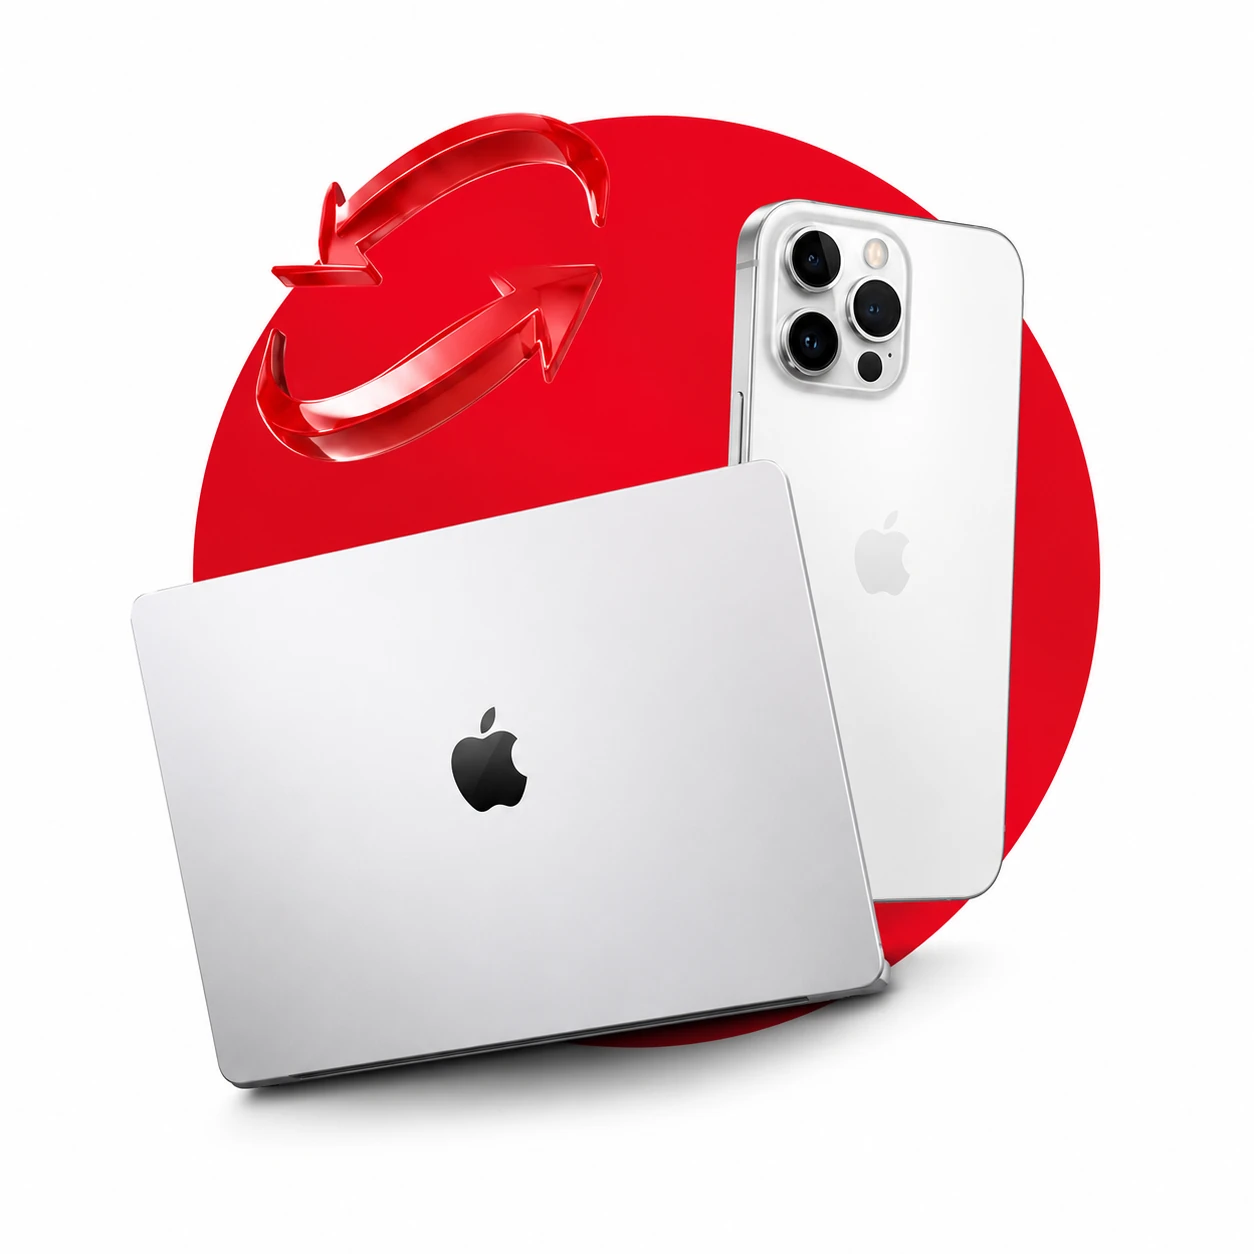
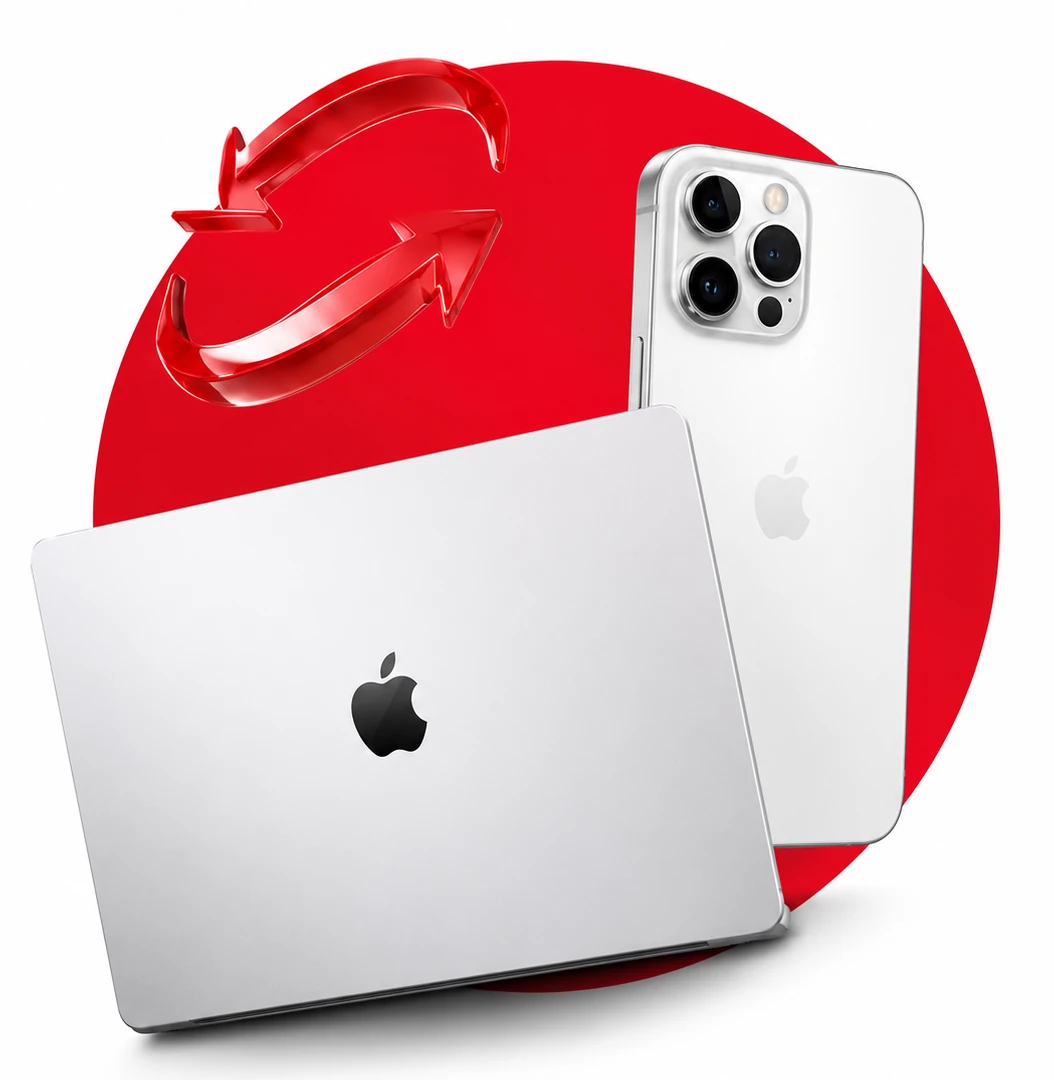
fix: refine trade image and product cards

diff --git a/frontend/src/styles.css b/frontend/src/styles.css
@@ -610,14 +610,7 @@ body.search-open { overflow: hidden; }
   position: relative; isolation: isolate; overflow: hidden; display: grid; place-items: center;
   height: 340px; border-radius: 25px; background: #fff;
 }
-.product-family__stage::before {
-  content: ""; position: absolute; z-index: -1; width: 230px; height: 230px;
-  border: 34px solid var(--red-soft); border-radius: 50%;
-  right: -52px; bottom: -75px; transition: transform .5s var(--ease), border-color .35s;
-}
-.product-family:hover .product-family__stage::before {
-  transform: scale(1.12) translate(-8px, -5px); border-color: rgba(225,29,29,.16);
-}
+.product-family__stage::before { content: none; }
 .product-family__availability {
   position: absolute; z-index: 3; top: 17px; left: 17px; padding: 7px 10px;
   border-radius: 999px; background: rgba(255,255,255,.84); color: var(--red);
@@ -636,18 +629,23 @@ body.search-open { overflow: hidden; }
 }
 .product-family__copy {
   min-height: 150px; padding: 22px 21px 20px; display: flex; flex-direction: column;
+  transition: background .32s var(--ease), color .25s;
 }
 .product-family__copy strong { font-size: 22px; font-weight: 850; letter-spacing: -.7px; }
 .product-family__copy small {
   min-height: 42px; margin-top: 6px; color: var(--gray); font-size: 12px; line-height: 1.5;
+  transition: color .25s;
 }
 .product-family__action {
   align-self: flex-start; margin-top: auto; padding: 8px 12px; border-radius: 999px;
   background: var(--red); color: #fff; font-size: 11px; font-weight: 750;
   transition: background .2s, padding .28s var(--ease);
 }
-.product-family:hover .product-family__action { padding-inline: 16px; background: var(--red-dark); }
+.product-family:hover .product-family__action { padding-inline: 16px; }
 .product-family__action b { margin-left: 4px; font-size: 12px; }
+.product-family:hover .product-family__copy { background: var(--red); color: #fff; }
+.product-family:hover .product-family__copy small { color: rgba(255,255,255,.78); }
+.product-family:hover .product-family__action { background: #fff; color: var(--red); }
 
 /* ===== Почему мы лучшие ===== */
 .why { display: grid; grid-template-columns: repeat(4,1fr); gap: 16px; }
@@ -2128,10 +2126,7 @@ body.noscroll { overflow: hidden; }
   border: 1px solid var(--line); border-radius: 36px; background: #fff;
   box-shadow: 0 28px 80px rgba(20,20,27,.08);
 }
-.home-trade__card::before {
-  content: ""; position: absolute; z-index: -1; width: 640px; height: 640px;
-  right: -270px; top: -310px; border: 65px solid rgba(225,29,29,.055); border-radius: 50%;
-}
+.home-trade__card::before { content: none; }
 .home-trade__copy {
   display: flex; flex-direction: column; justify-content: center; padding: 72px 0 72px 72px;
 }
@@ -2152,10 +2147,11 @@ body.noscroll { overflow: hidden; }
   content: "✓"; position: absolute; left: 11px; top: 9px; color: var(--red); font-weight: 900;
 }
 .home-trade__copy .trade-action { align-self: flex-start; }
-.home-trade__visual { position: relative; align-self: end; height: 100%; }
+.home-trade__visual { position: relative; overflow: hidden; align-self: end; height: 100%; }
 .home-trade__visual img {
-  position: absolute; width: 118%; max-width: none; height: 118%; right: -9%; bottom: -11%;
+  position: absolute; width: 100%; max-width: none; height: 100%; right: 0; bottom: 0;
   object-fit: contain; object-position: center bottom;
+  mix-blend-mode: multiply;
   filter: drop-shadow(0 30px 40px rgba(30,30,36,.12));
   transition: transform .7s var(--ease);
 }
@@ -2186,18 +2182,13 @@ body.noscroll { overflow: hidden; }
 }
 .trade-hero__perks span { color: var(--gray); font-size: 11px; line-height: 1.55; }
 .trade-hero__perks b { color: var(--ink); font-size: 11px; }
-.trade-hero__visual { position: relative; height: 650px; }
-.trade-hero__visual::after {
-  content: ""; position: absolute; z-index: -2; width: 650px; height: 650px;
-  right: -190px; top: -70px; border: 70px solid rgba(225,29,29,.055); border-radius: 50%;
-}
-.trade-hero__halo {
-  position: absolute; z-index: -1; width: 540px; height: 540px; right: 8%; top: 10%;
-  border-radius: 50%; background: radial-gradient(circle, rgba(225,29,29,.09), rgba(225,29,29,0) 70%);
-}
+.trade-hero__visual { position: relative; overflow: hidden; height: 650px; }
+.trade-hero__visual::after { content: none; }
+.trade-hero__halo { display: none; }
 .trade-hero__visual img {
-  width: 122%; max-width: none; height: 122%; margin: -11% 0 0 -8%;
-  object-fit: contain; filter: drop-shadow(0 35px 42px rgba(25,25,30,.13));
+  position: absolute; width: 102%; max-width: none; height: 102%; right: -1%; bottom: -1%;
+  object-fit: contain; mix-blend-mode: multiply;
+  filter: drop-shadow(0 35px 42px rgba(25,25,30,.13));
 }
 
 .trade-estimator-wrap { position: relative; z-index: 4; margin-top: -74px; scroll-margin-top: 100px; }
@@ -2323,12 +2314,12 @@ body.noscroll { overflow: hidden; }
   .home-trade__card { grid-template-columns: 1fr; min-height: auto; }
   .home-trade__copy { padding: 48px 36px 20px; }
   .home-trade__visual { min-height: 420px; }
-  .home-trade__visual img { width: 112%; height: 112%; right: -6%; bottom: -7%; }
+  .home-trade__visual img { width: 100%; height: 100%; right: 0; bottom: 0; }
   .trade-hero { padding-top: 30px; }
   .trade-hero__grid { grid-template-columns: 1fr; }
   .trade-hero__copy { padding: 30px 0 0; }
   .trade-hero__visual { height: min(650px, 82vw); margin-top: -20px; }
-  .trade-hero__visual img { width: 112%; height: 112%; margin: -4% 0 0 -6%; }
+  .trade-hero__visual img { width: 102%; height: 102%; right: -1%; bottom: -1%; }
   .trade-estimator-wrap { margin-top: -35px; }
   .trade-steps { grid-template-columns: 1fr 1fr; }
   .trade-steps::before { display: none; }

diff --git a/frontend/trade.html b/frontend/trade.html
@@ -63,7 +63,7 @@
         </div>
         <div class="trade-hero__visual reveal">
           <span class="trade-hero__halo" aria-hidden="true"></span>
-          <img src="/images/trade-in-iphone-macbook.webp" alt="iPhone и MacBook для обмена по Trade-in" width="1254" height="1254" fetchpriority="high" />
+          <img src="/images/trade-in-iphone-macbook.webp" alt="iPhone и MacBook для обмена по Trade-in" width="1054" height="1080" fetchpriority="high" />
         </div>
       </div>
     </section>

diff --git a/frontend/index.html b/frontend/index.html
@@ -268,7 +268,7 @@
           </a>
         </div>
         <div class="home-trade__visual reveal">
-          <img src="/images/trade-in-iphone-macbook.webp" alt="iPhone и MacBook для обмена по Trade-in" width="1254" height="1254" loading="lazy" />
+          <img src="/images/trade-in-iphone-macbook.webp" alt="iPhone и MacBook для обмена по Trade-in" width="1054" height="1080" loading="lazy" />
         </div>
       </article>
     </div>
